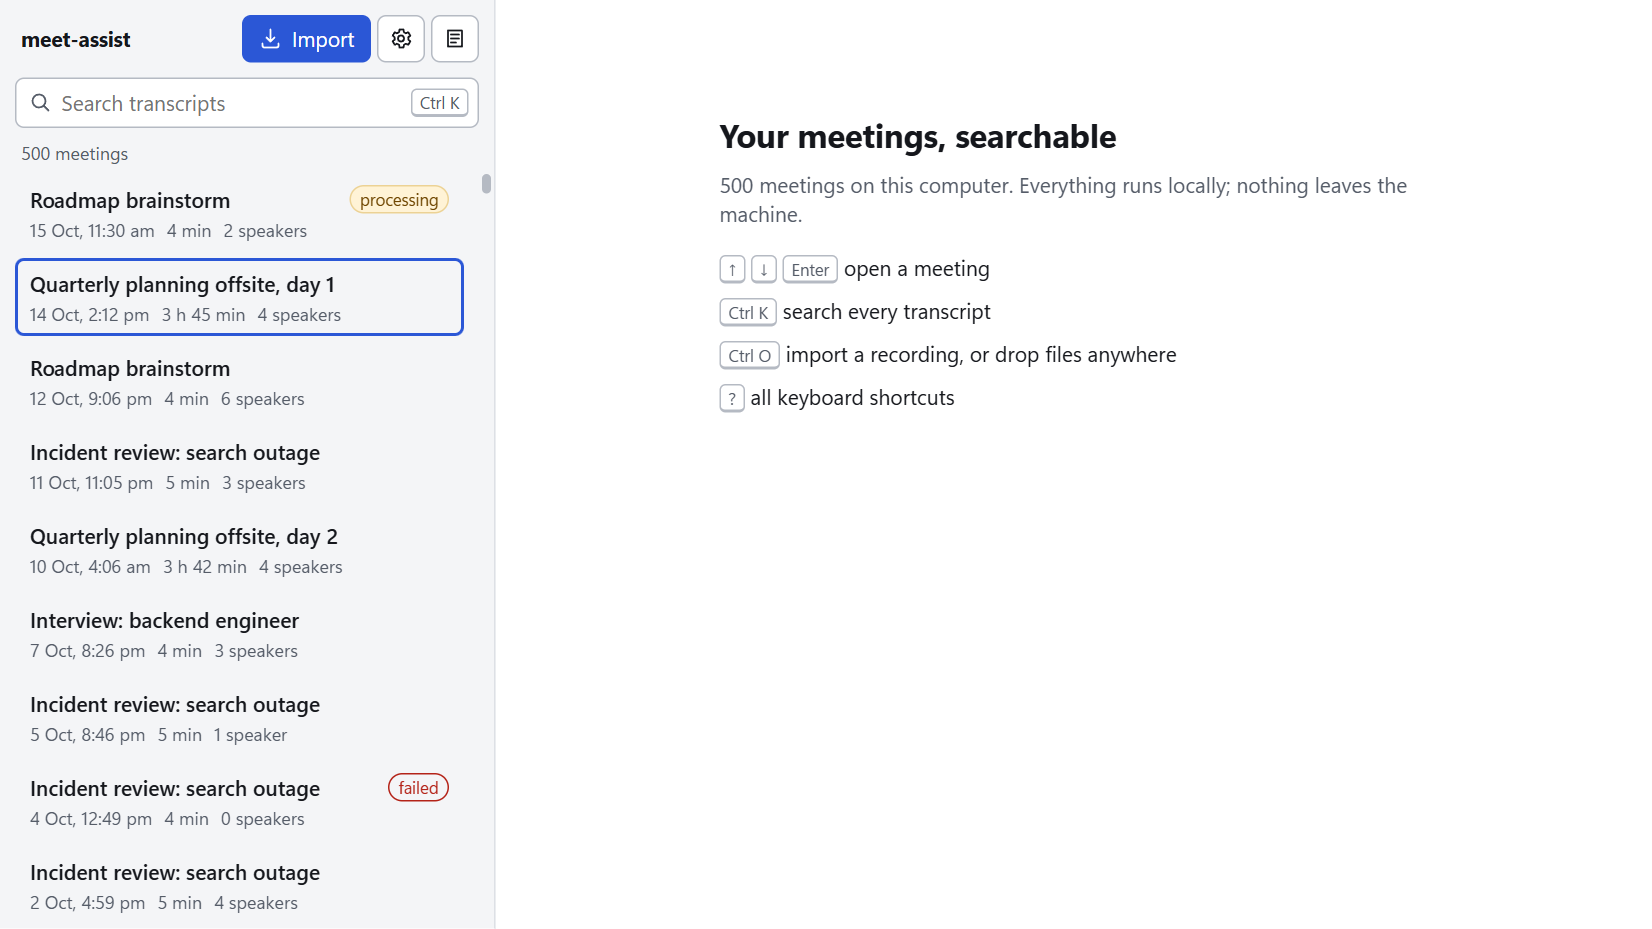
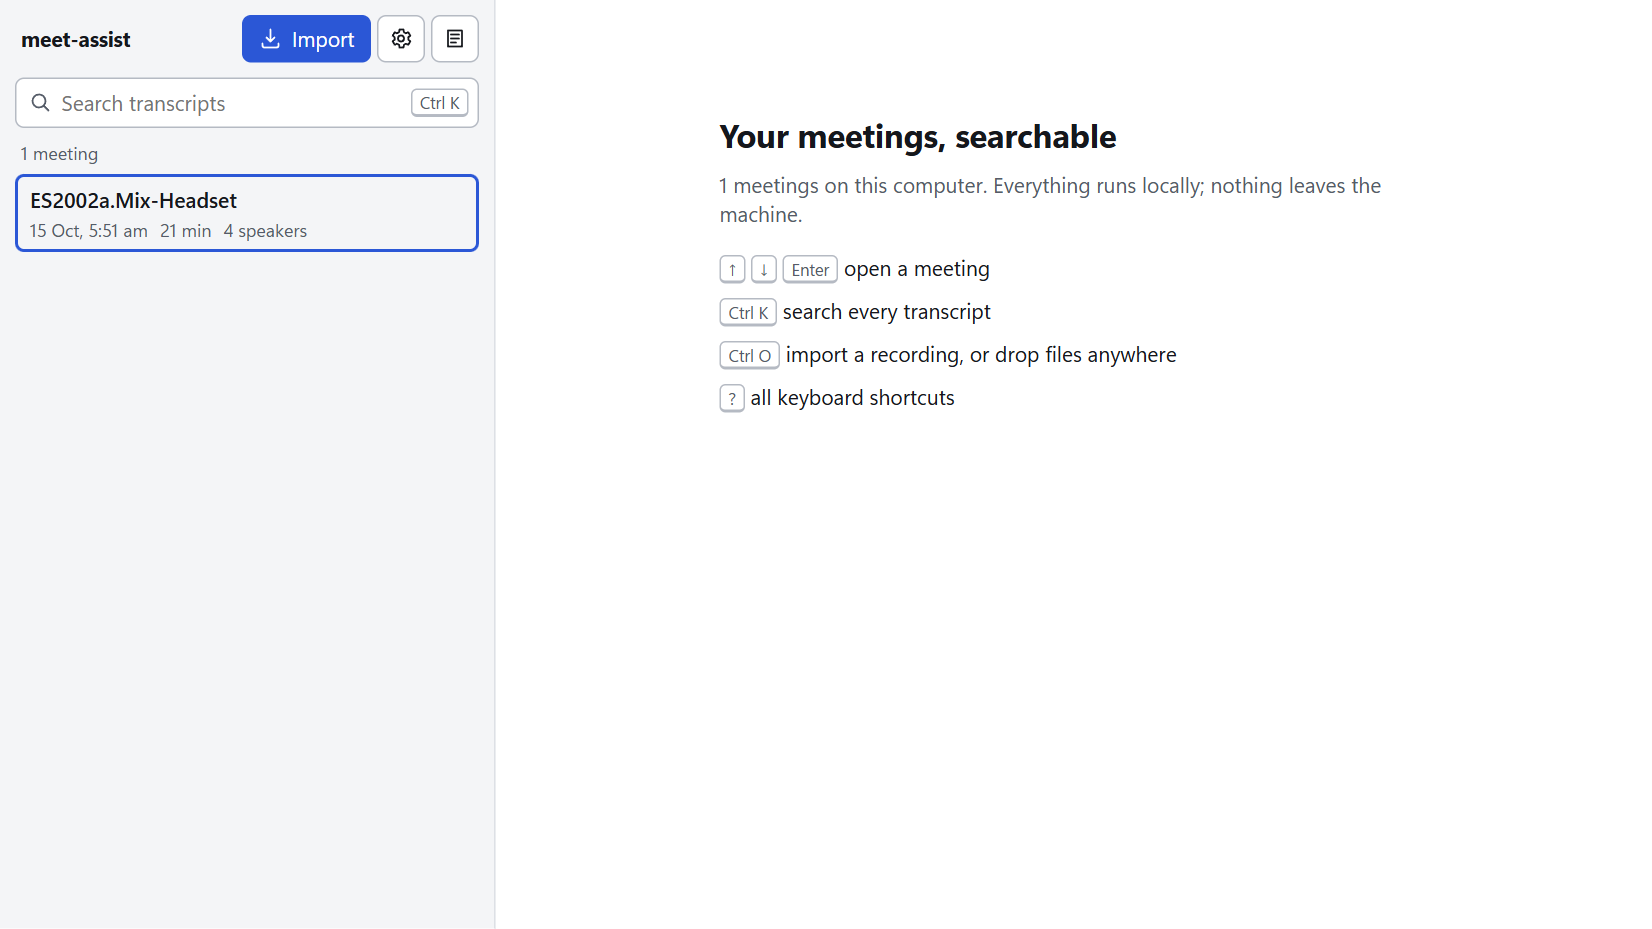
docs: DEV.md for the wired desktop app and CLI flags; screenshots from a real AMI import
DEV.md: MEET_ASSIST_DATA_DIR, --demo, the scratch-root end-to-end recipe
(junctions to the local models and engine, DevTools port, invoke from the
page), debug-build decode speed, the new transcribe flags, the EN default,
generated palette.ts and settingDefaults.ts, RunStore conformance.

Screenshots (library and meeting, dark and light, search) show the AMI
ES2002a meeting imported through the GPU pipeline into SqliteStore, with a
renamed speaker and the playhead word highlighted.

diff --git a/docs/DEV.md b/docs/DEV.md
@@ -41,11 +41,22 @@ cargo run --release -p meet-cli -- transcribe some.m4a [--language auto] [--rttm
 cargo run -p meet-cli -- list | show <id> | search <words> | export <id> --format srt
 ```
 
-Global flags: `--data-dir` (default: `portable.txt` next to the exe, then
-`HKCU\Software\meet-assist\DataRoot`, then
-`%LOCALAPPDATA%\app.meetassist.desktop`), `--db`, and `--models-dir` /
-`--engine-dir` to use models and a runtime from elsewhere, e.g. the repo's
-local copies:
+`transcribe` extras: `--json` prints one machine-readable result object on
+stdout (meeting id and uid, run id, duration, speakers, wall time, model
+paths, the words JSON and, with `--rttm`, the RTTM path; the summary goes to
+stderr); `--asr-model` / `--diar-model` take a `.gguf` path or a name, id or
+path from `models list` for that run only; `--engine-arg=<flag>` (repeatable)
+is passed verbatim to `nemo-speech transcribe`, e.g. `--engine-arg=--verbatim`.
+
+The default ASR model is the EN model (`nemotron-en`, measured best on
+English, docs/eval); Nemotron 3.5 is the optional pick for other or mixed
+languages, and only it receives `--language`.
+
+Global flags: `--data-dir` (default: `MEET_ASSIST_DATA_DIR`, then
+`portable.txt` next to the exe, then `HKCU\Software\meet-assist\DataRoot`,
+then `%LOCALAPPDATA%\app.meetassist.desktop`), `--db`, and `--models-dir` /
+`--engine-dir` (relative paths are taken from the current directory) to use
+models and a runtime from elsewhere, e.g. the repo's local copies:
 
 ```sh
 cargo run --release -p meet-cli -- --data-dir %TEMP%\ma --models-dir models --engine-dir engine transcribe data\samples\ES2002a.Mix-Headset.wav
@@ -73,7 +84,10 @@ versions that support the workspace `rust-version` (1.90) when they exist.
 - **TypeScript types** for `meet_core::views` and the domain types are
   generated by ts-rs into `apps/desktop/src/lib/generated/` whenever the
   `meet-core` tests run (`cargo test -p meet-core`, or the workspace test
-  above). They are committed; never edit them by hand. ts-rs does not delete
+  above), together with two constant modules: `palette.ts`
+  (`SPEAKER_PALETTE`, `ME_COLOR`) and `settingDefaults.ts`
+  (`meet_core::settings::DEFAULTS`). They are committed; never edit them by
+  hand. ts-rs does not delete
   files for removed types, so after renaming or removing one, regenerate from
   scratch:
 
@@ -84,12 +98,15 @@ versions that support the workspace `rust-version` (1.90) when they exist.
   `.cargo/config.toml` sets `TS_RS_EXPORT_DIR` and `TS_RS_LARGE_INT=number`
   (ids and timestamps are `i64` but stay below 2^53).
 - **Store conformance:** `crates/core/tests/store_conformance.rs` runs every
-  case against `MemoryStore` and `SqliteStore` (in-memory); a new `Store`
-  implementation adds one test that calls `run_all` with its own factory.
+  `Store` and `RunStore` case (runs, live utterances, anchors, carry-over)
+  against `MemoryStore` and `SqliteStore` (in-memory); a new implementation
+  adds one test that calls `run_all` with its own factory.
 - **FFI sidecar wire format** (not on the main path):
   `cargo test -p meet-core --features ffi-wire`.
-- **Mock data:** the desktop app starts on `MemoryStore::demo()` (500
-  meetings, three with 2,000 segments, plus model files and selections).
+- **Demo data:** `meet-assist.exe --demo` runs on `MemoryStore::demo()`
+  (500 meetings, three with 2,000 segments, model files and selections) with
+  a scratch data root under `%TEMP%\meet-assist-demo`. Without `--demo` the
+  app opens `SqliteStore` on the resolved data root.
 
 ## Desktop frontend
 
@@ -131,7 +148,34 @@ Runtime locations: app log under `%LOCALAPPDATA%\app.meetassist.desktop\logs\`,
 WebView2 profile under `%LOCALAPPDATA%\app.meetassist.desktop\EBWebView\`.
 To inspect the page from outside, start the exe with
 `WEBVIEW2_ADDITIONAL_BROWSER_ARGUMENTS=--remote-debugging-port=9223` and
-attach any Chrome DevTools client to `http://127.0.0.1:9223`.
+attach any Chrome DevTools client to `http://127.0.0.1:9223`; commands can be
+called from the page with `window.__TAURI_INTERNALS__.invoke(...)` (e.g.
+`import_file`, `export_meeting_to` writes an export without the dialog).
+
+Debug builds compile dependencies with `opt-level = 2` (workspace
+`Cargo.toml`), but `meet-core` itself stays unoptimised: decoding a 45-minute
+m4a takes about 90 s in a debug build against 3 s in release.
+
+### End-to-end on the GPU against a scratch data root
+
+The Phase 1.5 check (run 15 Oct 2026): a scratch data root whose `models`
+and `engine` folders are junctions to the repo's local copies, so nothing is
+copied or downloaded.
+
+```powershell
+$root = "$env:TEMP\ma-e2e"
+New-Item -ItemType Directory -Force $root | Out-Null
+cmd /c mklink /J "$root\models" "$PWD\models"
+cmd /c mklink /J "$root\engine" "$PWD\engine"
+$env:MEET_ASSIST_DATA_DIR = $root
+$env:WEBVIEW2_ADDITIONAL_BROWSER_ARGUMENTS = "--remote-debugging-port=9223"
+.\target\debug\meet-assist.exe
+```
+
+The first import scans the folders and selects the EN model and Nemotron 3
+Diarization. `nemo-speech` 0.2.0 cannot open paths of 260 characters or
+more; the adapter passes long paths in the `\\?\` form, so deep data roots
+work.
 
 ### Tauri versions
 
